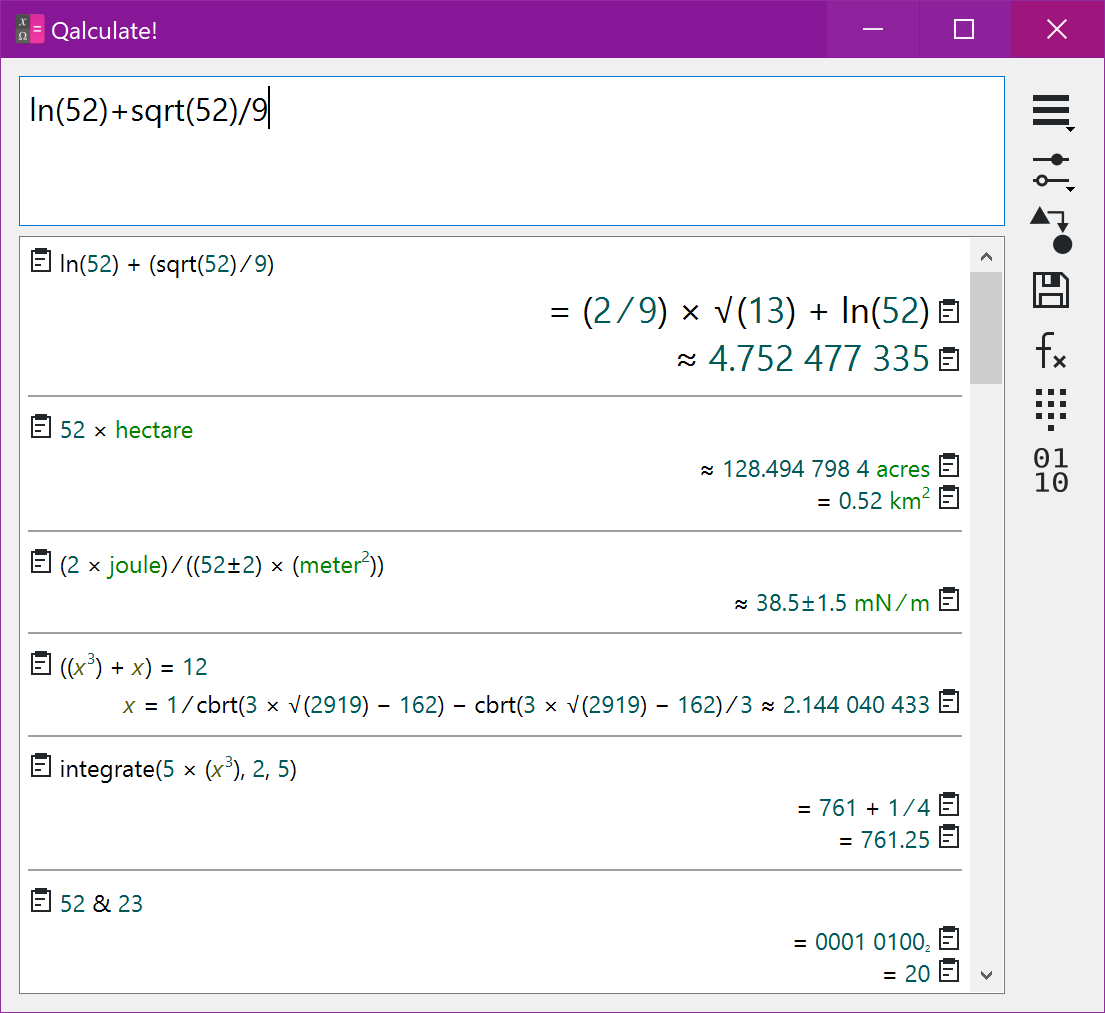
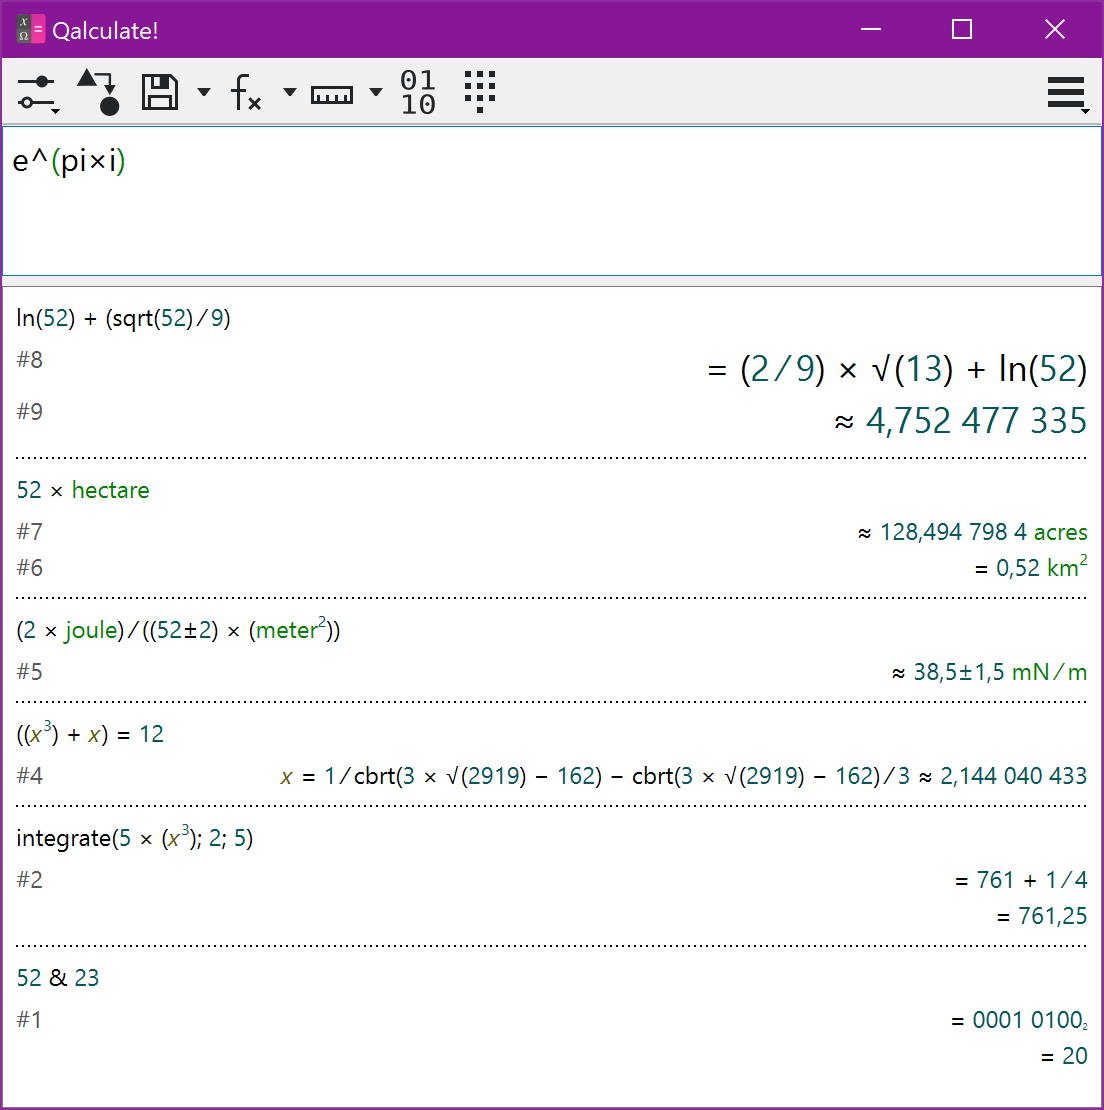
Update qalculate-qt screenshot

Changed region(s): [[0.0, 0.0, 1.0, 1.0], [0.0, 0.8875, 0.9239, 1.0]]

diff --git a/screenshots.html b/screenshots.html
@@ -50,7 +50,7 @@
 <br><br>
 <a href="images/qalculate-keypad.png"><IMG src="images/qalculate-keypad.png" width="581" height="445" border="0"></a>
 <br><br>
-<a href="images/qalculate-qt.png"><IMG src="images/qalculate-qt.png" width="552" height="506" border="0"></a>
+<a href="images/qalculate-qt.png"><IMG src="images/qalculate-qt.png" width="552" height="555" border="0"></a>
 <br><br>
 <a href="images/qalculate-programming.png"><IMG src="images/qalculate-programming.png" width="572" height="428" border="0"></a>
 <br><br>
